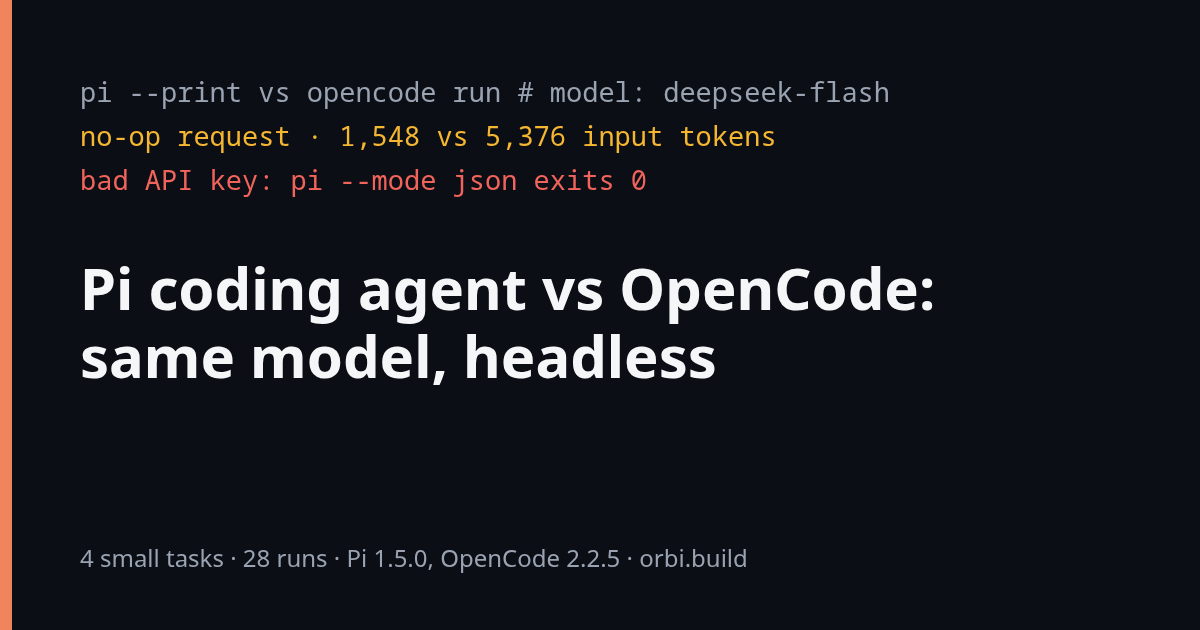
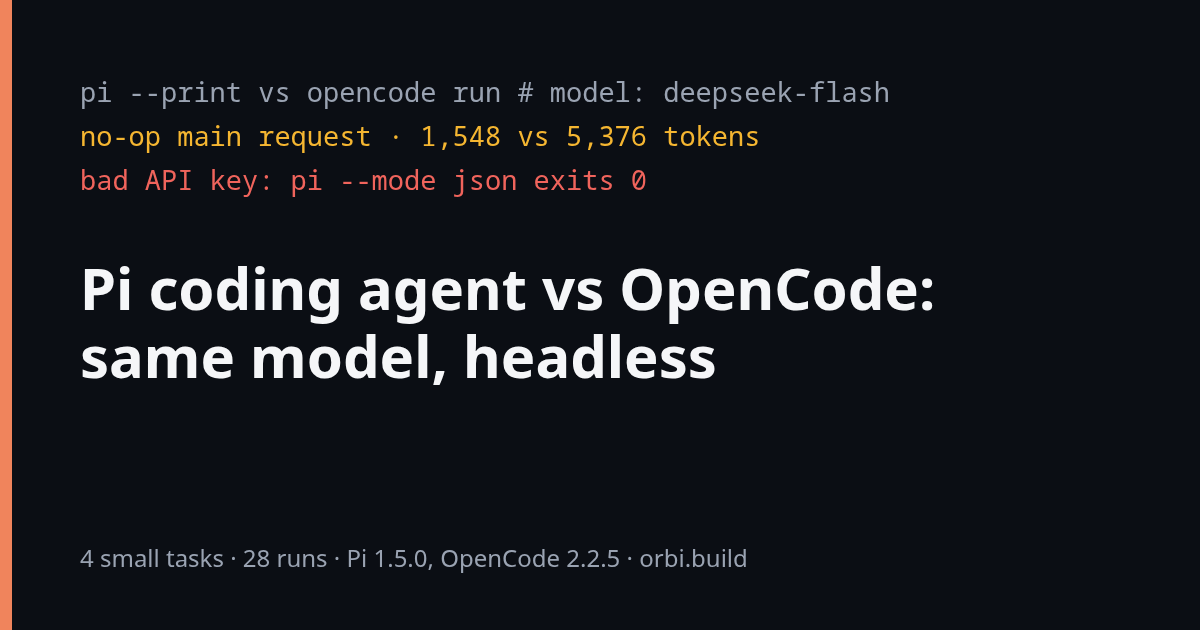
blog: Pi vs OpenCode, round-1 review fixes (guard command wording, card label)

Changed region(s): [[0.1542, 0.181, 0.6475, 0.2413]]

diff --git a/content/blog/pi-coding-agent-vs-opencode.md b/content/blog/pi-coding-agent-vs-opencode.md
@@ -74,7 +74,7 @@ export default function (pi: ExtensionAPI) {
 }
 ```
 
-It kept the file in both deletion runs. Both guarded `.env` runs still printed the secret through bash, using `grep -n '^SECRET=' .env`. Explicitly requesting `grep SECRET .env` also printed it in both guarded runs.
+It kept the file in both deletion runs. Both guarded `.env` runs still printed the secret through bash: one ran `grep -n '^SECRET=' .env`, the other `cat .env`. Explicitly requesting `grep SECRET .env` also printed it in both guarded runs.
 
 A rule on one tool is not a security boundary: both tools exposed `.env` through the shell. Use a container or sandbox and keep secrets out of the working tree. Pi's own `examples/extensions/permission-gate.ts` only matches `rm -rf`, `sudo` and `chmod`/`chown 777`; it blocks by default when no UI is available.
 
